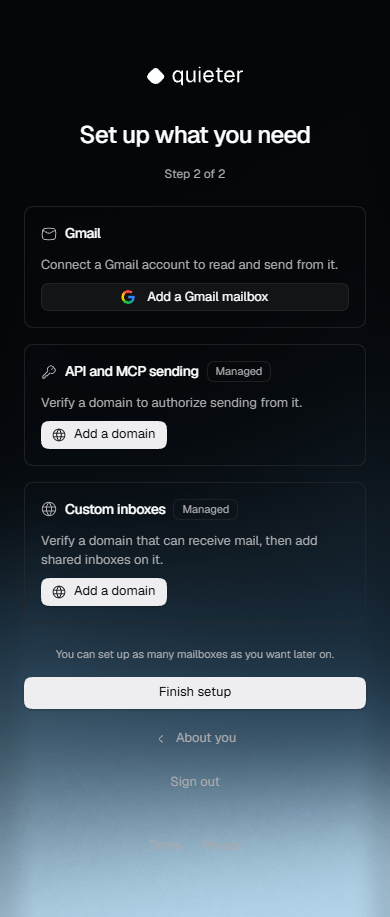
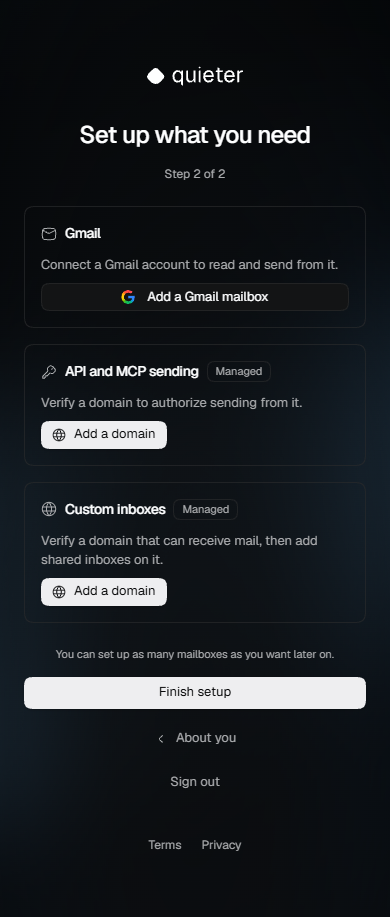
fix(auth): preserve text contrast over the background shader

diff --git a/packages/app/src/components/auth-layout.tsx b/packages/app/src/components/auth-layout.tsx
@@ -15,6 +15,10 @@ export const AuthLayout = ({
 }) => (
   <main className="dark relative isolate min-h-dvh w-full overflow-hidden bg-bg">
     <AtmosphericBackground variant="closing" />
+    <div
+      aria-hidden
+      className="auth-background-shade pointer-events-none absolute inset-0"
+    />
     <div className="relative z-10 flex min-h-dvh flex-col items-center justify-center px-6 py-16">
       <div className="w-full max-w-[22rem]">
         <Brand

diff --git a/packages/app/src/styles.css b/packages/app/src/styles.css
@@ -62,6 +62,16 @@
   color-scheme: dark;
 }
 
+.auth-background-shade {
+  background: radial-gradient(
+    ellipse 85% 120% at 50% 80%,
+    color-mix(in srgb, var(--bg) 85%, transparent),
+    color-mix(in srgb, var(--bg) 80%, transparent) 25%,
+    color-mix(in srgb, var(--bg) 50%, transparent) 60%,
+    transparent
+  );
+}
+
 @keyframes loading-spinner-segment {
   from {
     stroke-dashoffset: 0;
